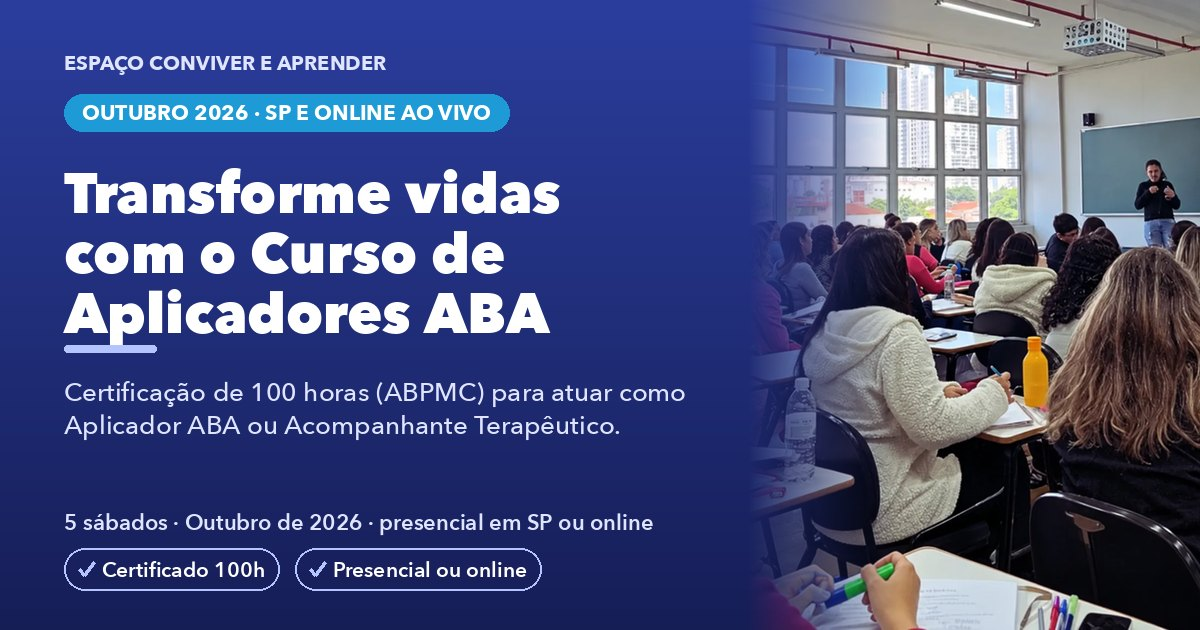
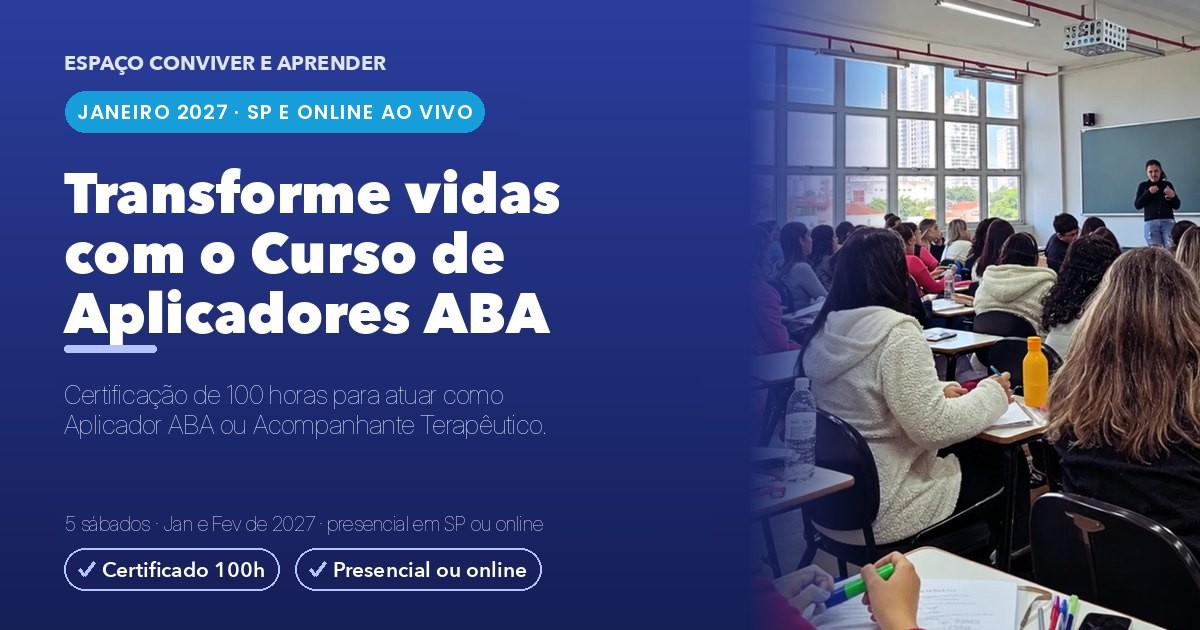
fix(og): preview do card para Janeiro 2027 e remove ABPMC da imagem
- Regenera assets/og-share.jpg: eyebrow JANEIRO 2027, linha 5 sabados Jan e Fev de 2027, subheadline sem (ABPMC)
- Versiona og:image / secure_url / twitter:image (?v=2027-01) p/ furar cache do WhatsApp/FB

Changed region(s): [[0.0308, 0.6032, 0.5858, 0.6937], [0.0617, 0.1206, 0.4317, 0.2111], [0.0308, 0.8143, 0.555, 0.8444]]

diff --git a/index.html b/index.html
@@ -23,18 +23,18 @@
 <meta property="og:url" content="https://aba.convivereaprender.com.br/">
 <meta property="og:title" content="Curso de Aplicadores ABA (100h) · Janeiro 2027">
 <meta property="og:description" content="Transforme vidas com o Curso de Aplicadores ABA. Certificado de 100h para atuar como Aplicador ABA/AT. Presencial em SP ou online ao vivo.">
-<meta property="og:image" content="https://aba.convivereaprender.com.br/assets/og-share.jpg">
-<meta property="og:image:secure_url" content="https://aba.convivereaprender.com.br/assets/og-share.jpg">
+<meta property="og:image" content="https://aba.convivereaprender.com.br/assets/og-share.jpg?v=2027-01">
+<meta property="og:image:secure_url" content="https://aba.convivereaprender.com.br/assets/og-share.jpg?v=2027-01">
 <meta property="og:image:type" content="image/jpeg">
 <meta property="og:image:width" content="1200">
 <meta property="og:image:height" content="630">
-<meta property="og:image:alt" content="Curso de Aplicadores ABA (100h) — Janeiro 2027, presencial em SP ou online ao vivo">
+<meta property="og:image:alt" content="Curso de Aplicadores ABA (100h), Janeiro 2027, presencial em SP ou online ao vivo">
 
 <!-- Twitter -->
 <meta name="twitter:card" content="summary_large_image">
 <meta name="twitter:title" content="Curso de Aplicadores ABA (100h) · Janeiro 2027">
 <meta name="twitter:description" content="Certificação de 100h para atuar como Aplicador ABA/AT. Presencial em SP ou online ao vivo.">
-<meta name="twitter:image" content="https://aba.convivereaprender.com.br/assets/og-share.jpg">
+<meta name="twitter:image" content="https://aba.convivereaprender.com.br/assets/og-share.jpg?v=2027-01">
 
 <!-- Meta Pixel 100% no GTM (removido da pagina para nao duplicar) -->
 
